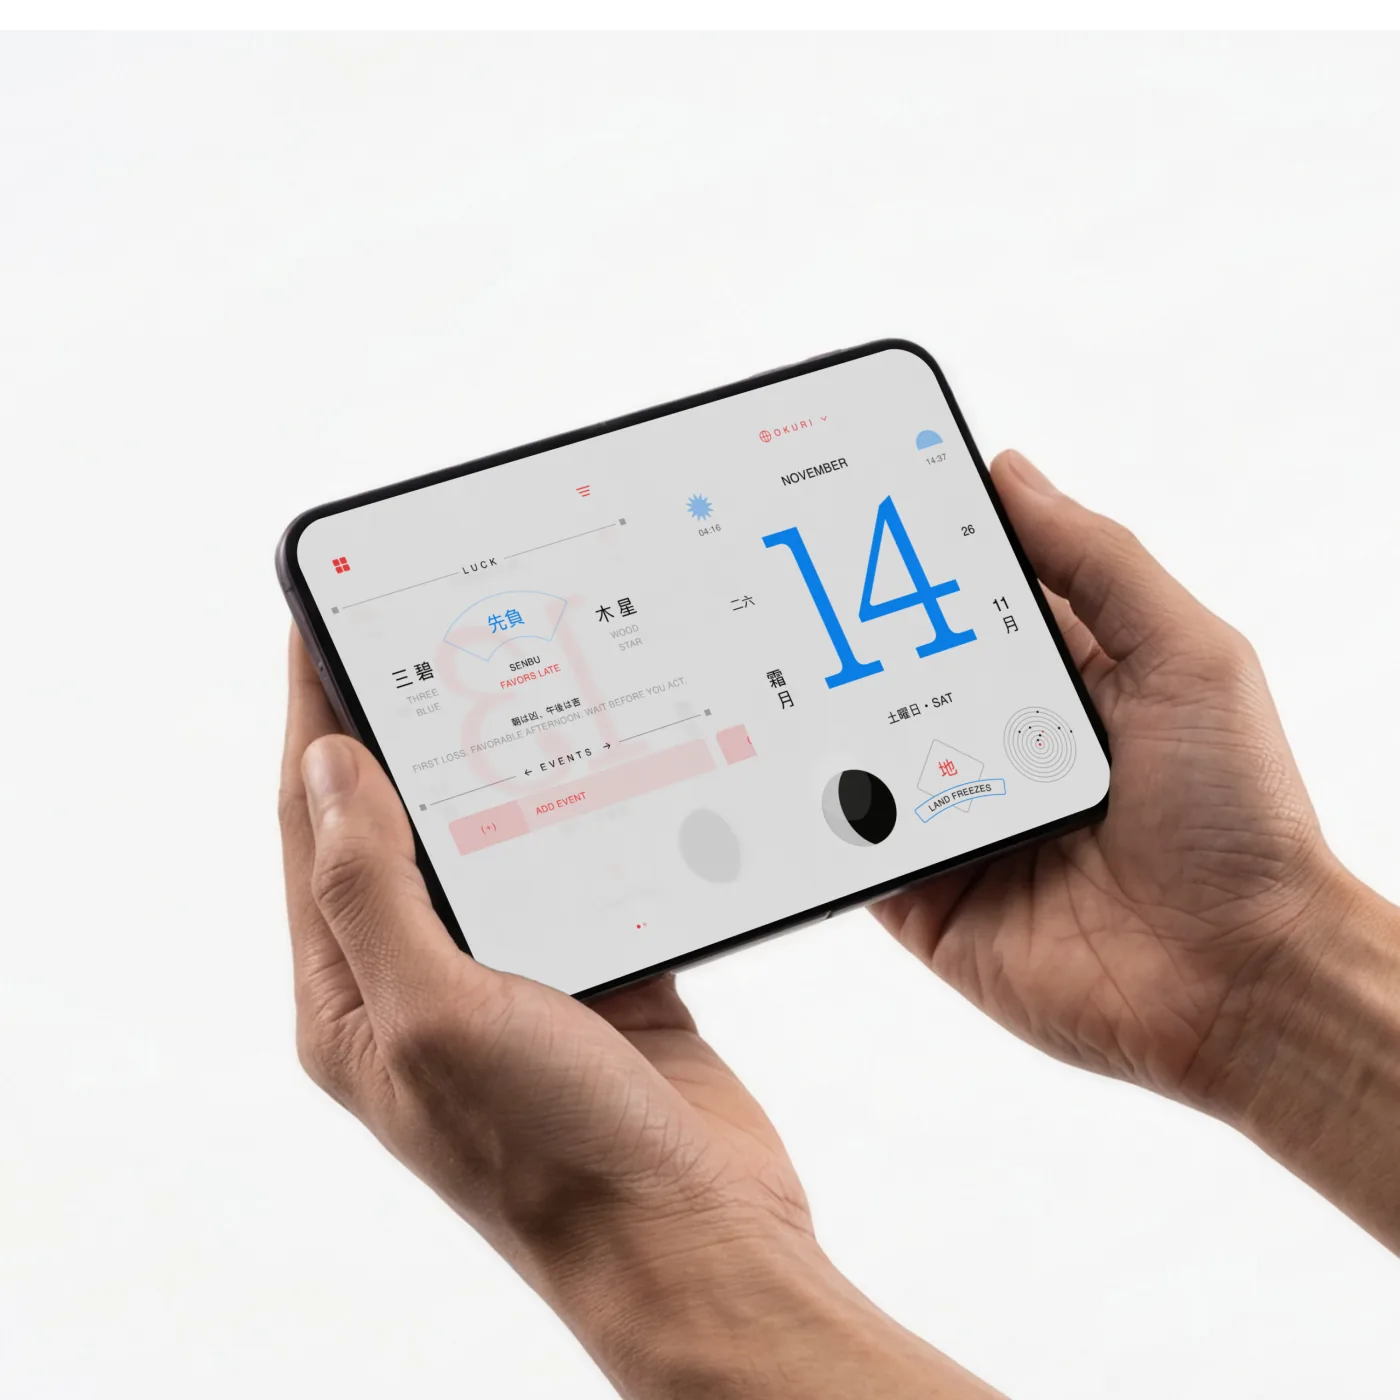
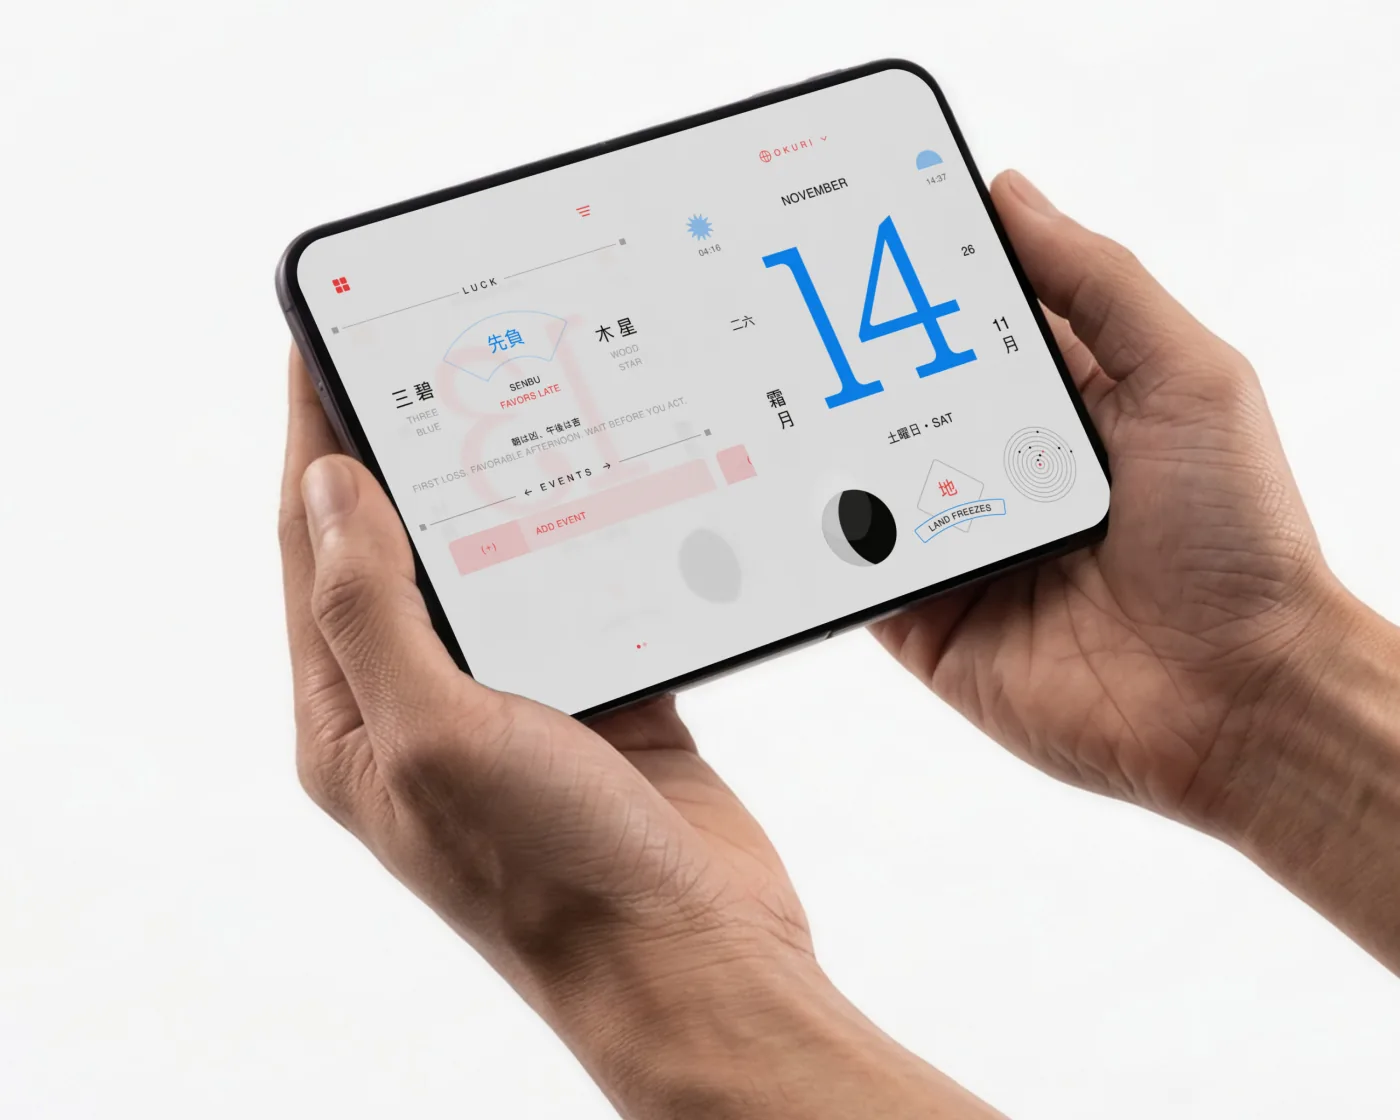
/works: OKURI order matches the main site exactly; crop duokuri; pad the sheet top
- The feature-nomination shot (xokuri_web.webp) was missing. It now sits directly
  after the "Under the first month of release…" paragraph, which is where the main
  site puts it. Full order is now the main site's beat for beat: video, core
  features, imagery, X shoutout, nominations, CTA last.
- mokuri2 (phone in the jacket pocket) removed.
- DUOKURI iPhone Mockup 1 had an empty top fifth; cropped 3000x3000 -> 3000x2400
  before encoding, so the plate is no longer mostly dead white.
- .wk-panel__inner had padding-top:0 after the hero reservation moved to margin,
  so the title sat flush against the sheet's own top edge on scroll. The hero
  height is the margin and padY is back as real padding inside the sheet; the
  title now clears it by 30px.

diff --git a/src/works/works.data.js b/src/works/works.data.js
@@ -42,6 +42,8 @@ const source = [
     // video, the core-features list, the X shoutout with both links, and the App
     // Store CTA — not just a blurb and a pile of images. `content` takes over from
     // `body` when present; every other project still uses the plain `body` array.
+    // Order is the main site's, beat for beat: video, core features, imagery, the
+    // X shoutout, then the feature-nomination shot, then the CTA last.
     content: [
       { type: "media", src: "/xokuri_web.mp4" },
       {
@@ -58,6 +60,8 @@ const source = [
         ],
       },
       { type: "media", src: "/duokuri1_web.webp" },
+      { type: "media", src: "/okuri_hands_web.webp" },
+      { type: "media", src: "/wn3_web.webp" },
       {
         type: "para",
         parts: [
@@ -68,9 +72,9 @@ const source = [
           " on X!",
         ],
       },
-      { type: "media", src: "/okuri_hands_web.webp" },
-      { type: "media", src: "/wn3_web.webp" },
-      { type: "media", src: "/mokuri2_web.webp" },
+      // The feature nominations — the same shot the main site puts right after that
+      // paragraph, and the one this panel used as its hero before.
+      { type: "media", src: "/xokuri_web.webp" },
       {
         type: "cta",
         label: "Download on the App Store",

diff --git a/src/works/works.css b/src/works/works.css
@@ -232,8 +232,11 @@
    through the left and right gutters. Margin puts the gap outside the box entirely,
    so the sheet paints full width and starts exactly where the copy starts. */
 .wk-panel__inner {
-  margin-top: calc(var(--wk-panel-hero-h) + var(--wk-panel-pad-y));
-  padding: 0 var(--wk-panel-pad-x) calc(var(--wk-panel-pad-y) * 2);
+  /* The reserved hero height is the margin; the top padding is INSIDE the sheet,
+     so the title has air above it once the sheet scrolls up over the hero. With
+     padding-top at 0 the title sat flush against the sheet's own top edge. */
+  margin-top: var(--wk-panel-hero-h);
+  padding: var(--wk-panel-pad-y) var(--wk-panel-pad-x) calc(var(--wk-panel-pad-y) * 2);
   background: rgb(246, 246, 246);
 }
 
